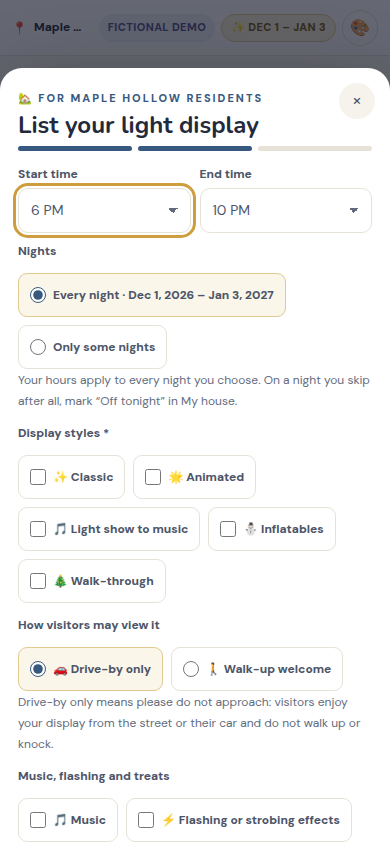
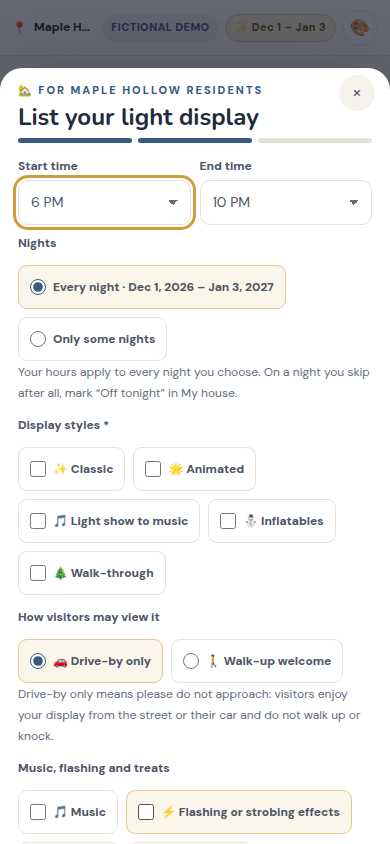
docs: 0.14.0-beta.1 screenshots with map tiles for every event type and Organizer > Events; test report

diff --git a/docs/quality/test-report.md b/docs/quality/test-report.md
@@ -1,6 +1,46 @@
 # Test and verification report
 
-## Latest run — 2026-10-31, release 0.13.0-beta.1
+## Latest run — 2026-10-31, release 0.14.0-beta.1
+
+The finishing release of the event-types roadmap (CU-20261031-31 to -44), on PHP 8.5.12 + PostgreSQL 18.6, Symfony
+8.1.10. No schema change. The bar: the release-blocking acceptance audit ([event-types-acceptance.md](event-types-acceptance.md))
+with a test behind every item, Halloween unchanged apart from named bug fixes, and the upgrade production takes —
+0.9.0-beta.1 straight to this release, every migration in sequence — run on the built images.
+
+| Gate | Result |
+|---|---|
+| Baseline at 0.13.0-beta.1 (branch start, dev stacks) | PHPUnit **OK — 558 tests, 14176 assertions** |
+| PHPUnit 13.4.5 | **OK — 587 tests, 14553 assertions** (29 new: 15 contact-check table cases, the event-neutral copy check, the compact brand and gate notice, the legal pages per type, the sale's offered filters, the reference configs, 5 acceptance tests; the contact, filter, badge, brand, gate-notice and neutral-copy tests ran red before their fix) |
+| Coverage (pcov) | Lines **95.28 %** ✓ ≥ 85 · Methods 83.38 % · Branches n/a |
+| Halloween parity | 28 server-rendered pages of the four stacks diffed before and after (asset fingerprints aside): Halloween's pages are identical except the named fixes (the Ventura example's long name gets the compact brand; one full stop after the gate notice); lights pages change only in the badge, the brand class and the legal words; the sale's also in its Filters order. GoldenApiParityTest and PublicPrivacyTest unchanged and green |
+| PHPStan level 6 · `composer audit --locked` · `lint:twig` · `lint:yaml` · `lint:container` | No errors · no advisories · 79 files OK · 21 files OK (config, examples and the two reference configs) · OK |
+| Migrations up / down to zero / up (test database) | OK (5 migrations; no new one) |
+| node:test on Node 24 · Python 3.14 + shapely 2.2.0 | **67/67** (1 new: a hostile shared link) · **47/47** |
+| Playwright E2E on the four dev stacks, tiles blocked (fresh stacks) | **225 passed, 2 skipped** (12.9 min; the same 2 skipped as before): 100 new cross-type tests in types.spec.mjs — the brand, notices and footer per type; no overflow at 7 widths in light and dark; larger text with more contrast at 7 widths; reduced motion; axe on the lights' and the sale's other public pages and every type's selected home, both themes; a keyboard-only walk through each type — and Halloween phone screenshots at 390 px on both engines |
+| Playwright E2E with OpenStreetMap tiles (the one tile run, fresh stacks; refreshes the screenshots) | **225 passed, 2 skipped** (12.4 min). Its Organizer → Events screenshot showed the draft's "Put on the map" button white on white (CU-20261031-43): after the fix, `season` alone (`--no-deps`, tiles blocked, a fresh demo stack; that page has no map) passed with the new check and retook `admin-events-1440.png` |
+| Session smoke test | **13/13** |
+| `bin/smoke-prod-image.sh` on the built prod and nginx images | **7/7 passed** (0.14.0-beta.1: /healthz, the map page, 6 versioned assets, multipart rules, the upload endpoint, all FPM pools, the console); home-map.js and the reference configs are in the images. Rebuilt and run again on the final tree after the admin.css fix: 7/7 |
+| `bin/drill-event-upgrade.sh nhm-app nhm-nginx smoke` (images of the tree before the admin.css-only fix) | **all 8 steps passed** (113 s): published 0.9.0-beta.1 with 14 fictional homes → backup → upgrade to 0.14.0-beta.1 (both migrations at start; same 14 homes, keys and values; 1 occurrence, 14 event listings) → edit + new self-entered home → images back to 0.9.0-beta.1 ("You have 2 previously executed migrations", "Already at the latest version"; the same 15 homes) → edit on 0.9 → forward again (the 0.9 edit is in the event tables) → 0.9 + `bin/restore.sh` of the pre-upgrade dump (exactly the 14 homes, no event tables, 3 migrations) → upgraded again (same 14 homes) |
+| Trivy | not run locally (CI scans the images) |
+
+Bugs the audit and the visual pass found, each with a failing test first: a seven-digit phone rule refusing "items
+100-1000"; sale filters for categories the event leaves out; the sale's day toggles after the kind-of-sale toggles; the
+top-bar range "APR 10 – APR 11"; three-line sidebar brands for long names (also Halloween's Ventura example); the
+footer name widening phones on the lights; peach notices on the lights and the sale; a double full stop after the gate
+notice; holiday words in the legal pages, the address examples and an error message; Leaflet pins that ignored Enter;
+no keyboard way to place the self-entry pin; My house losing the focus after a save; the 📝 marker shown on cards
+(a CSS cascade bug); cards wider than a 390–430 px phone with larger text (Halloween); the console's "Put on the map" button white on white. The acceptance tests added for
+items without a test passed at once: no data bug was found.
+
+Screenshots (`docs/design/screenshots/`, with OpenStreetMap tiles from the one tile run, fictional demo data; browser
+clock pinned for the lights and the sale, and for the new Halloween 390 px shots): `lights-{1440,390}.png`,
+`lights-dark-{1440,390}.png`, `lights-register-390.png`, `lights-me-390.png`, the same six `sale-*.png`, Halloween's
+existing names (`demo-{375,430,768,1180,1440}.png`, `demo-dark-{375,1440}.png`, written at the iPhone's 3× scale by the
+webkit project, as before) plus the new `demo-390.png` and `demo-dark-390.png`, the Ventura map pages
+(`ventura-{375,430,1180,1440}.png`, which show the compact brand), and `admin-events-1440.png`. The organizer
+overview and boundary captures were left as committed.
+
+## Run — 2026-10-31, release 0.13.0-beta.1
 
 The garage sale, the third event type (ROADMAP Stage 4; CU-20261031-25 to -30), on PHP 8.5.12 + PostgreSQL 18.6,
 Symfony 8.1.10. The bar was Halloween and Christmas lights parity first (every earlier test, API answer and page

diff --git a/CHANGES.md b/CHANGES.md
@@ -1341,4 +1341,14 @@ so their `commit_ref` reads `consolidated`.
   commit_ref: "feature/event-types-p5"
   author: "Lance Sandino"
   timestamp: "2026-11-01T01:10:00Z"
+- id: CU-20261031-44
+  type: chore
+  title: "0.14.0-beta.1 screenshots with OpenStreetMap tiles for every event type and Organizer → Events, and the test report's latest run"
+  description: "One local e2e run with tiles (E2E_BLOCK_TILES unset, fresh stacks) refreshed the lights and sale captures (desktop 1440 and phone 390, light and dark, the listing form, My house), Halloween's under their existing names plus demo-390 and demo-dark-390, and the Ventura map pages (which now show the compact brand); admin-events-1440.png was retaken after the CU-20261031-43 fix with season alone (that page has no map). The organizer overview and boundary captures stay as committed. docs/quality/test-report.md records every gate of the final tree; the event-types migration runbook (committed separately) covers the direct upgrade from 0.9, erasure and date boundaries."
+  impact: none
+  affected_modules: ["docs/design/screenshots/", "docs/quality/test-report.md", "docs/runbooks/event-types-migration.md"]
+  related_tests: ["tests/e2e (225 passed, 2 skipped, with tiles)", "tests/Unit/About/ReleaseConsistencyTest.php"]
+  commit_ref: "feature/event-types-p5"
+  author: "Lance Sandino"
+  timestamp: "2026-11-01T01:20:00Z"
 ```
